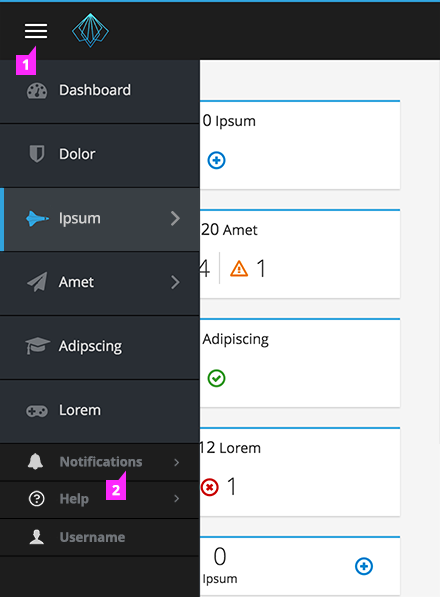
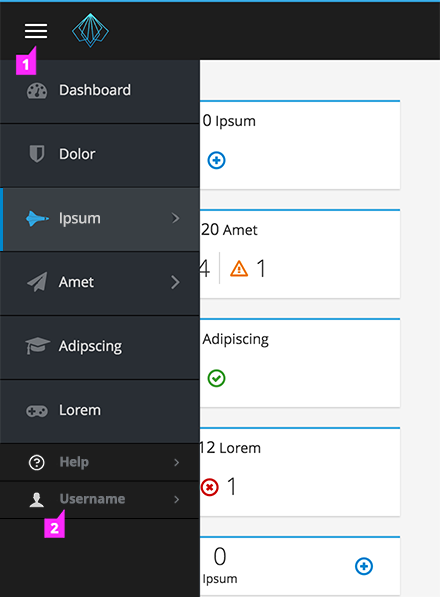
Made Serena’s requested changes. Pulled Notifications from the image and add a ">" after the username.

diff --git a/pattern-library/navigation/vertical-navigation/design/design.md b/pattern-library/navigation/vertical-navigation/design/design.md
@@ -49,13 +49,12 @@ Tertiary navigation is non-persistent and only appears on hover. The tertiary na
 
 ### Primary Navigation | Responsive State
 
-![navigation-vertical-responsive-callout](img/navigation-vertical-responsive-callout.png)
+![navigation-vertical-responsive-state-callout](img/navigation-vertical-responsive-callout.png)
 
 1. **Menu Drawer**: When open, the menu appears as a drawer sliding out from the left edge of the viewport. This will overlay content area.
 2. **Utility Items**:
   - Once the utility items do not fit in the masthead (on small screens), they will responsively move to rest underneath the main navigation items in the vertical navigation.
   - In any instance that there is an icon present in desktop state with no text label (for example, the help icon), a text label will appear next to that icon in this responsive state.
-  - The "Notifications" navigation item will open a responsive-friendly notification drawer, when selected. ([See Here](http://www.patternfly.org/pattern-library/communication/notification-drawer/#/_design) for details about the notification drawer.)
 
 
 ### Secondary Navigation | Responsive State
